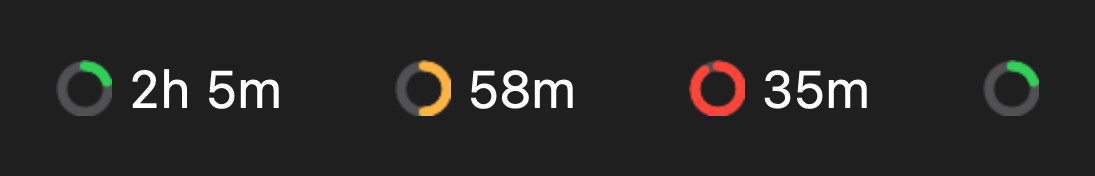
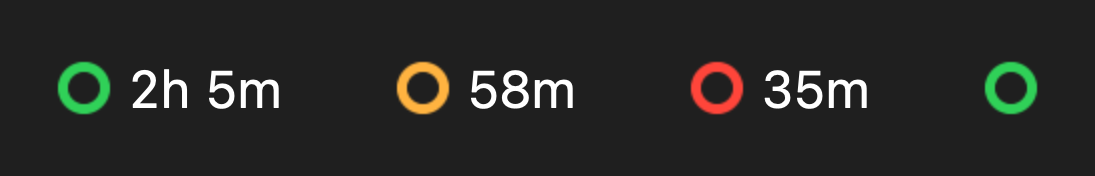
fix(app): reliable popover visibility, quit and settings in the popover, full mood ring

diff --git a/App/Views/MenuBarPopover.swift b/App/Views/MenuBarPopover.swift
@@ -7,12 +7,16 @@ import SwiftUI
 struct MenuBarPopover: View {
     @Environment(AppModel.self) private var model
     @Environment(\.openWindow) private var openWindow
+    @Environment(\.openSettings) private var openSettings
+    /// The popover's own panel, so it can be dismissed explicitly.
+    @State private var panel: NSWindow?
 
-    /// The three categories using the most CPU. Restart is advice, not something to tick.
+    /// The three categories using the most CPU (ties broken by id so rows never swap places).
+    /// Restart is advice, not something to tick.
     private var topCategories: [CategorySummary] {
         Array(model.snapshot.categories
             .filter { $0.id != .restart }
-            .sorted { $0.cores > $1.cores }
+            .sorted { ($0.cores, $1.id.rawValue) > ($1.cores, $0.id.rawValue) }
             .prefix(3))
     }
 
@@ -20,31 +24,67 @@ struct MenuBarPopover: View {
         VStack(spacing: 10) {
             header
             list
+            if let toast = model.toast {
+                ToastView(toast: toast) { Task { await model.undoLast() } }
+                    .transition(.move(edge: .bottom).combined(with: .opacity))
+                    .id(toast.id)
+            }
             CleanUpButton()
+            footer
+        }
+        .animation(.snappy, value: model.toast?.id)
+        .padding(14)
+        .frame(width: 290)
+        .background(WindowVisibility { model.popoverVisible = $0 } onWindow: { panel = $0 })
+        .onAppear { model.popoverVisible = true }
+        .onDisappear { model.popoverVisible = false }
+    }
+
+    // MARK: Footer
+
+    private var footer: some View {
+        HStack(spacing: 8) {
             Button {
                 NSApp.activate()
                 openWindow(id: "main")
+                dismissPanel()
             } label: {
                 Text("Open full view")
                     .font(.callout)
                     .foregroundStyle(Palette.blue)
-                    .frame(maxWidth: .infinity)
                     .contentShape(Rectangle())
             }
             .buttonStyle(.plain)
-        }
-        .padding(14)
-        .frame(width: 290)
-        .overlay(alignment: .bottom) {
-            if let toast = model.toast {
-                ToastView(toast: toast) { Task { await model.undoLast() } }
-                    .padding(.bottom, 80)
-                    .transition(.move(edge: .bottom).combined(with: .opacity))
-                    .id(toast.id)
+            Spacer(minLength: 0)
+            iconButton("gearshape", label: "Settings", help: "Settings") {
+                NSApp.activate()
+                openSettings()
+                dismissPanel()
+            }
+            iconButton("power", label: "Quit CleanUp", help: "Quit CleanUp") {
+                NSApp.terminate(nil)
             }
         }
-        .onAppear { model.popoverVisible = true }
-        .onDisappear { model.popoverVisible = false }
+    }
+
+    private func iconButton(_ symbol: String, label: String, help: String, action: @escaping () -> Void) -> some View {
+        Button(action: action) {
+            Image(systemName: symbol)
+                .font(.system(size: 12, weight: .medium))
+                .frame(width: 26, height: 26)
+        }
+        .buttonStyle(.plain)
+        .foregroundStyle(.secondary)
+        .glassEffect(.regular.interactive(), in: .circle)
+        .help(help)
+        .accessibilityLabel(label)
+    }
+
+    /// Closes the popover if it is still the key window (opening another window normally dismisses it).
+    private func dismissPanel() {
+        DispatchQueue.main.async {
+            if let panel, panel.isKeyWindow { panel.close() }
+        }
     }
 
     // MARK: Header

diff --git a/App/Views/MenuBarLabel.swift b/App/Views/MenuBarLabel.swift
@@ -10,7 +10,6 @@ struct MenuBarLabel: View {
     var body: some View {
         MenuBarLabelContent(
             mood: model.snapshot.mood,
-            load: MenuBarGlyph.load(of: model.snapshot),
             minutes: model.hasScanned ? Self.minutes(in: model.snapshot) : nil
         )
     }
@@ -25,13 +24,11 @@ struct MenuBarLabel: View {
 /// Split from `MenuBarLabel` so the debug renderer can draw it without a model.
 struct MenuBarLabelContent: View {
     let mood: Mood
-    /// 0...1: how much of the ring is filled.
-    let load: Double
     let minutes: String?
 
     var body: some View {
         HStack(spacing: 4) {
-            Image(nsImage: MenuBarGlyph.image(mood: mood, load: load))
+            Image(nsImage: MenuBarGlyph.image(mood: mood))
                 .renderingMode(.original)
             if let minutes {
                 Text(minutes).monospacedDigit()
@@ -42,34 +39,27 @@ struct MenuBarLabelContent: View {
     }
 }
 
-/// The 14 pt ring: a faint track with an arc in the mood color showing how busy the CPU is.
+/// The 14 pt ring, a full circle in the mood color. Rendered once per mood and reused, so the label
+/// doesn't redraw an image on every 5 s refresh.
+@MainActor
 enum MenuBarGlyph {
     static let size: CGFloat = 14
+    private static var cache: [Mood: NSImage] = [:]
 
-    /// Share of the CPU in use, so a calm Mac shows a short arc and a drained one a nearly full ring.
-    static func load(of snapshot: Snapshot) -> Double {
-        let cores = Double(ProcessInfo.processInfo.activeProcessorCount)
-        return min(1, max(0, snapshot.coresBusy / cores))
-    }
-
-    @MainActor
-    static func image(mood: Mood, load: Double) -> NSImage {
-        let color = Palette.color(mood)
-        let ring = ZStack {
-            Circle().stroke(Palette.gray.opacity(0.45), lineWidth: 2.5)
-            Circle()
-                .trim(from: 0, to: max(0.12, load))
-                .stroke(color, style: StrokeStyle(lineWidth: 2.5, lineCap: .round))
-                .rotationEffect(.degrees(-90))
-        }
-        .padding(1.25)
-        .frame(width: size, height: size)
+    static func image(mood: Mood) -> NSImage {
+        if let cached = cache[mood] { return cached }
+        let ring = Circle()
+            .strokeBorder(Palette.color(mood), lineWidth: 2.5)
+            .padding(0.5)
+            .frame(width: size, height: size)
 
         let renderer = ImageRenderer(content: ring)
-        renderer.scale = NSScreen.main?.backingScaleFactor ?? 2
+        // The menu bar sits on the primary screen; 2x if no screen is reachable.
+        renderer.scale = NSScreen.screens.first?.backingScaleFactor ?? 2
         let image = renderer.nsImage ?? NSImage(size: NSSize(width: size, height: size))
         // The ring is colored on purpose: the menu bar must not turn it into a monochrome template.
         image.isTemplate = false
+        cache[mood] = image
         return image
     }
 }

diff --git a/App/Views/WindowVisibility.swift b/App/Views/WindowVisibility.swift
@@ -1,0 +1,64 @@
+import AppKit
+import SwiftUI
+
+/// Reports whether the hosting window is really on screen, and hands out the window itself.
+///
+/// `.onAppear` / `.onDisappear` are not enough: a `MenuBarExtra` keeps its hosted view alive while
+/// the panel is closed, and closing a `Window` scene doesn't always remove its content. This watches
+/// the `NSWindow` instead (key changes, close, occlusion), so a flag driven by it can't stick.
+struct WindowVisibility: NSViewRepresentable {
+    let onChange: (Bool) -> Void
+    var onWindow: (NSWindow?) -> Void = { _ in }
+
+    func makeNSView(context: Context) -> TrackingView {
+        let view = TrackingView()
+        view.onChange = onChange
+        view.onWindow = onWindow
+        return view
+    }
+
+    func updateNSView(_ view: TrackingView, context: Context) {
+        view.onChange = onChange
+        view.onWindow = onWindow
+    }
+
+    final class TrackingView: NSView {
+        var onChange: (Bool) -> Void = { _ in }
+        var onWindow: (NSWindow?) -> Void = { _ in }
+        private var observers: [NSObjectProtocol] = []
+
+        override func viewDidMoveToWindow() {
+            super.viewDidMoveToWindow()
+            observers.forEach(NotificationCenter.default.removeObserver)
+            observers = []
+            onWindow(window)
+            guard let window else { return report(false) }
+
+            let center = NotificationCenter.default
+            let names: [Notification.Name] = [
+                NSWindow.didBecomeKeyNotification,
+                NSWindow.didResignKeyNotification,
+                NSWindow.didChangeOcclusionStateNotification,
+                NSWindow.didMiniaturizeNotification,
+                NSWindow.didDeminiaturizeNotification,
+            ]
+            for name in names {
+                observers.append(center.addObserver(forName: name, object: window, queue: .main) { [weak self] _ in
+                    // Hop one turn so `isVisible` and the occlusion state have settled.
+                    DispatchQueue.main.async { MainActor.assumeIsolated { self?.evaluate() } }
+                })
+            }
+            observers.append(center.addObserver(forName: NSWindow.willCloseNotification, object: window, queue: .main) { [weak self] _ in
+                MainActor.assumeIsolated { self?.report(false) }
+            })
+            evaluate()
+        }
+
+        private func evaluate() {
+            guard let window else { return report(false) }
+            report(window.isVisible && !window.isMiniaturized && window.occlusionState.contains(.visible))
+        }
+
+        private func report(_ visible: Bool) { onChange(visible) }
+    }
+}

diff --git a/App/DebugSnapshot.swift b/App/DebugSnapshot.swift
@@ -79,10 +79,10 @@ enum DebugSnapshot {
         window.orderOut(nil)
 
         let strip = HStack(spacing: 28) {
-            MenuBarLabelContent(mood: .allGood, load: 0.2, minutes: "2h 5m")
-            MenuBarLabelContent(mood: .busy, load: 0.5, minutes: "58m")
-            MenuBarLabelContent(mood: .drainingFast, load: 0.9, minutes: "35m")
-            MenuBarLabelContent(mood: .allGood, load: 0.2, minutes: nil)
+            MenuBarLabelContent(mood: .allGood, minutes: "2h 5m")
+            MenuBarLabelContent(mood: .busy, minutes: "58m")
+            MenuBarLabelContent(mood: .drainingFast, minutes: "35m")
+            MenuBarLabelContent(mood: .allGood, minutes: nil)
         }
         .foregroundStyle(.white)
         .padding(14)

diff --git a/App/Views/MainView.swift b/App/Views/MainView.swift
@@ -55,6 +55,7 @@ struct MainView: View {
         .sheet(item: Binding(get: { model.explaining }, set: { model.explaining = $0 })) { item in
             ExplainSheet(item: item).environment(model)
         }
+        .background(WindowVisibility { model.windowVisible = $0 })
         .onAppear {
             model.windowVisible = true
             NSApp.activate()
